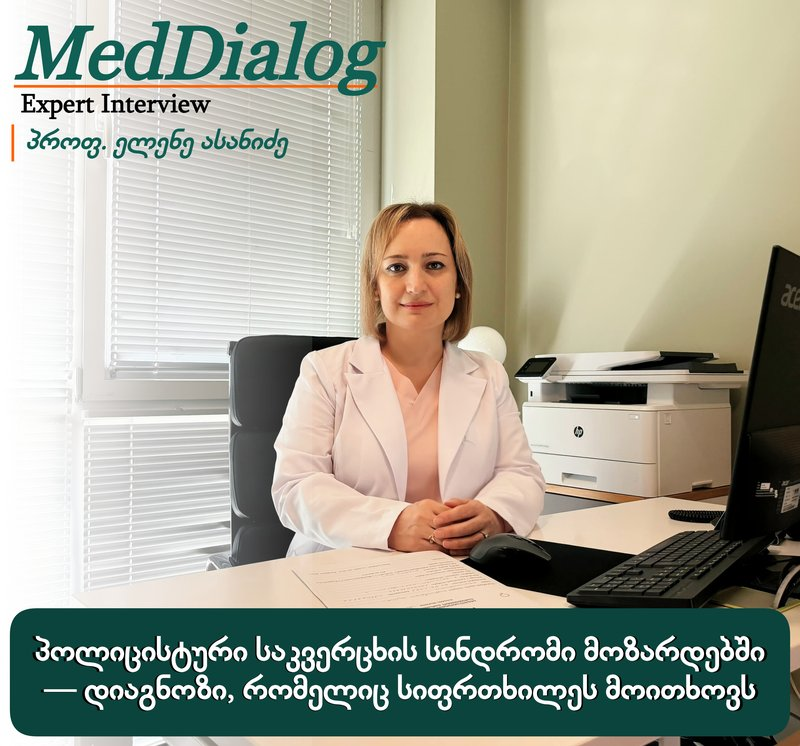
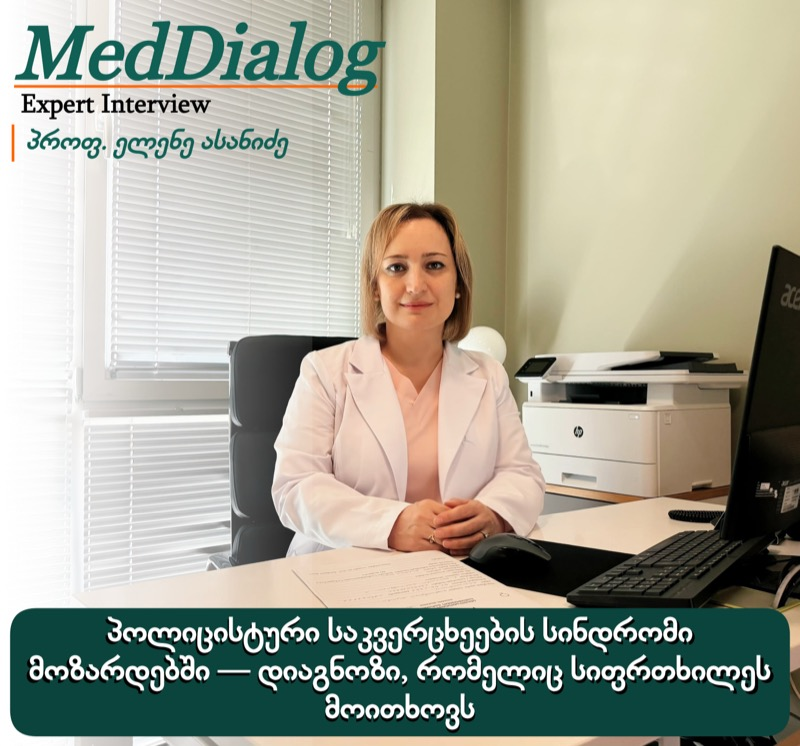
fixes

diff --git a/article-pcos.html b/article-pcos.html
@@ -4,8 +4,8 @@
 <meta charset="UTF-8">
 <meta name="viewport" content="width=device-width, initial-scale=1">
 
-<title>პოლიცისტური საკვერცხის სინდრომი მოზარდებში — ექიმთან დიალოგი</title>
-<meta name="description" content="პროფესორი ელენე ასანიძე პოლიცისტური საკვერცხის სინდრომის დიაგნოსტიკაზე მოზარდებში — რატომ საჭიროებს ის განსაკუთრებულ სიფრთხილეს.">
+<title>პოლიცისტური საკვერცხეების სინდრომი მოზარდებში — ექიმთან დიალოგი</title>
+<meta name="description" content="პროფესორი ელენე ასანიძე პოლიცისტური საკვერცხეების სინდრომის დიაგნოსტიკაზე მოზარდებში — რატომ საჭიროებს ის განსაკუთრებულ სიფრთხილეს.">
 
 <!-- სოციალური ქსელები — Facebook აბსოლუტურ URL-ებს მოითხოვს.
      დომენის შეცვლისას იხილეთ SETUP.md → "Facebook share". -->
@@ -13,8 +13,8 @@
 <meta property="og:locale" content="ka_GE">
 <meta property="og:site_name" content="ექიმთან დიალოგი">
 <meta property="og:url" content="https://meddialog.ge/article-pcos.html">
-<meta property="og:title" content="პოლიცისტური საკვერცხის სინდრომი მოზარდებში — დიაგნოზი, რომელიც სიფრთხილეს მოითხოვს">
-<meta property="og:description" content="პროფესორი ელენე ასანიძე პოლიცისტური საკვერცხის სინდრომის დიაგნოსტიკაზე მოზარდებში — რატომ საჭიროებს ის განსაკუთრებულ სიფრთხილეს.">
+<meta property="og:title" content="პოლიცისტური საკვერცხეების სინდრომი მოზარდებში — დიაგნოზი, რომელიც სიფრთხილეს მოითხოვს">
+<meta property="og:description" content="პროფესორი ელენე ასანიძე პოლიცისტური საკვერცხეების სინდრომის დიაგნოსტიკაზე მოზარდებში — რატომ საჭიროებს ის განსაკუთრებულ სიფრთხილეს.">
 <meta property="og:image" content="https://meddialog.ge/assets/img/art-pcos-share.jpg">
 <meta property="og:image:width" content="1200">
 <meta property="og:image:height" content="630">
@@ -101,7 +101,7 @@
     <p class="post__kicker">ექსპერტის ინტერვიუ</p>
 
     <h1 class="post__title">
-      პოლიცისტური საკვერცხის სინდრომი მოზარდებში —
+      პოლიცისტური საკვერცხეების სინდრომი მოზარდებში —
       დიაგნოზი, რომელიც სიფრთხილეს მოითხოვს
     </h1>
 
@@ -142,7 +142,7 @@
       </p>
 
       <p>
-        სპეციალისტები აღნიშნავენ, რომ პოლიცისტური საკვერცხის სინდრომის
+        სპეციალისტები აღნიშნავენ, რომ პოლიცისტური საკვერცხეების სინდრომის
         დიაგნოზი მოზარდებში ერთ-ერთი ყველაზე რთული კლინიკური გამოწვევაა.
         ნაჩქარევმა დიაგნოზმა შეიძლება გამოიწვიოს ჰიპერდიაგნოსტიკა და არასაჭირო
         მკურნალობა, ხოლო დაგვიანებულმა შეფასებამ — სიმპტომებისა და
@@ -154,9 +154,9 @@
         დოქტორი, მეან-გინეკოლოგი, ბავშვთა და მოზარდთა გინეკოლოგი.
       </p>
 
-      <h2 class="post__q">2026 წელს პოლიცისტური საკვერცხის სინდრომისთვის ახალი საერთაშორისო სახელწოდება — პოლიენდოკრინული მეტაბოლური საკვერცხეების სინდრომი იქნა შეთავაზებული. რას უკავშირდება ეს ცვლილება და რატომ გახდა ის საჭირო?</h2>
+      <h2 class="post__q">2026 წელს პოლიცისტური საკვერცხეების სინდრომისთვის ახალი საერთაშორისო სახელწოდება — პოლიენდოკრინული მეტაბოლური საკვერცხეების სინდრომი იქნა შეთავაზებული. რას უკავშირდება ეს ცვლილება და რატომ გახდა ის საჭირო?</h2>
 
-      <p>პოლიცისტური საკვერცხის სინდრომი (პსს) მხოლოდ გინეკოლოგიური პათოლოგია არ არის. ის წარმოადგენს კომპლექსურ, მრავალსისტემურ ენდოკრინულ-მეტაბოლურ მდგომარეობას, რომელიც გავლენას ახდენს არა მხოლოდ რეპროდუქციულ, არამედ მეტაბოლურ, გულ-სისხლძარღვთა და ფსიქოემოციურ ჯანმრთელობაზეც. სწორედ ამიტომ, 2026 წელს საერთაშორისო ექსპერტთა კონსენსუსის საფუძველზე შემოთავაზებული იქნა ახალი სახელწოდება — პოლიენდოკრინული მეტაბოლური საკვერცხის სინდრომი (პმსს).</p>
+      <p>პოლიცისტური საკვერცხეების სინდრომი (პსს) მხოლოდ გინეკოლოგიური პათოლოგია არ არის. ის წარმოადგენს კომპლექსურ, მრავალსისტემურ ენდოკრინულ-მეტაბოლურ მდგომარეობას, რომელიც გავლენას ახდენს არა მხოლოდ რეპროდუქციულ, არამედ მეტაბოლურ, გულ-სისხლძარღვთა და ფსიქოემოციურ ჯანმრთელობაზეც. სწორედ ამიტომ, 2026 წელს საერთაშორისო ექსპერტთა კონსენსუსის საფუძველზე შემოთავაზებული იქნა ახალი სახელწოდება — პოლიენდოკრინული მეტაბოლური საკვერცხეების სინდრომი (პმსს).</p>
 
       <p>ახალი სახელწოდება უკეთ ასახავს ამ მდგომარეობის მრავალსისტემურ ბუნებას და ხაზს უსვამს, რომ მისი არსი მხოლოდ საკვერცხეების ცვლილებებით არ შემოიფარგლება. ძველი სახელწოდება ხშირად ქმნიდა შთაბეჭდილებას, თითქოს პრობლემა მხოლოდ საკვერცხეებში არსებულ „კისტებს“ უკავშირდებოდა, მაშინ როცა მდგომარეობა ჰორმონულ და მეტაბოლურ პროცესებს მოიცავს. ახალი ტერმინის დანერგვა ეტაპობრივად მოხდება და მისი სრული ინტეგრაცია 2028 წლის საერთაშორისო გაიდლაინის განახლებასთან არის დაკავშირებული; გარდამავალ პერიოდში კი ორივე ტერმინის გამოყენება შესაძლებელია.</p>
 
@@ -358,7 +358,7 @@
         <ul class="footer__list">
           <li><a href="#">ქალთა ჯანმრთელობა</a></li>
           <li><a href="#">ორსულობა</a></li>
-          <li><a href="#">სექსობრივი ჯანმრთელობა</a></li>
+          <li><a href="#">სქესობრივი ჯანმრთელობა</a></li>
           <li><a href="#">ქირურგია</a></li>
         </ul>
       </nav>

diff --git a/index.html b/index.html
@@ -206,7 +206,7 @@
           </div>
         </li>
 
-        <!-- 4 — სექსობრივი ჯანმრთელობა -->
+        <!-- 4 — სქესობრივი ჯანმრთელობა -->
         <li class="card reveal">
           <div class="card__media">
             <img src="assets/img/cat-sexual.jpg" width="600" height="600" alt="წყვილი ზღვის სანაპიროზე მზის ჩასვლისას" loading="lazy" decoding="async">
@@ -217,7 +217,7 @@
             </span>
           </div>
           <div class="card__body">
-            <h3 class="card__title"><a class="card__link" href="#">სექსობრივი ჯანმრთელობა</a></h3>
+            <h3 class="card__title"><a class="card__link" href="#">სქესობრივი ჯანმრთელობა</a></h3>
             <svg class="card__arrow" width="19" height="19" viewBox="0 0 24 24" fill="none" stroke="currentColor" stroke-width="2.2" stroke-linecap="round" stroke-linejoin="round" aria-hidden="true">
               <path d="M5 12h14M13 6l6 6-6 6"/>
             </svg>
@@ -395,7 +395,7 @@
         <ul class="footer__list">
           <li><a href="#">ქალთა ჯანმრთელობა</a></li>
           <li><a href="#">ორსულობა</a></li>
-          <li><a href="#">სექსობრივი ჯანმრთელობა</a></li>
+          <li><a href="#">სქესობრივი ჯანმრთელობა</a></li>
           <li><a href="#">ქირურგია</a></li>
         </ul>
       </nav>

diff --git a/ask.html b/ask.html
@@ -156,7 +156,7 @@
               <option>ქალთა ჯანმრთელობა</option>
               <option>რეპროდუქციული ჯანმრთელობა</option>
               <option>ორსულობა</option>
-              <option>სექსობრივი ჯანმრთელობა</option>
+              <option>სქესობრივი ჯანმრთელობა</option>
               <option>ბავშვთა და მოზარდთა ჯანმრთელობა</option>
               <option>ქირურგია</option>
               <option>სხვა</option>
@@ -337,7 +337,7 @@
         <ul class="footer__list">
           <li><a href="#">ქალთა ჯანმრთელობა</a></li>
           <li><a href="#">ორსულობა</a></li>
-          <li><a href="#">სექსობრივი ჯანმრთელობა</a></li>
+          <li><a href="#">სქესობრივი ჯანმრთელობა</a></li>
           <li><a href="#">ქირურგია</a></li>
         </ul>
       </nav>

diff --git a/category-children.html b/category-children.html
@@ -108,7 +108,7 @@
 
           <div class="art__body">
             <h2 class="art__title">
-              პოლიცისტური საკვერცხის სინდრომი მოზარდებში — დიაგნოზი,
+              პოლიცისტური საკვერცხეების სინდრომი მოზარდებში — დიაგნოზი,
               რომელიც სიფრთხილეს მოითხოვს
             </h2>
             <p class="art__excerpt">
@@ -176,7 +176,7 @@
         <ul class="footer__list">
           <li><a href="index.html#categories">ქალთა ჯანმრთელობა</a></li>
           <li><a href="#">ორსულობა</a></li>
-          <li><a href="#">სექსობრივი ჯანმრთელობა</a></li>
+          <li><a href="#">სქესობრივი ჯანმრთელობა</a></li>
           <li><a href="#">ქირურგია</a></li>
         </ul>
       </nav>

diff --git a/about.html b/about.html
@@ -203,7 +203,7 @@
         <ul class="footer__list">
           <li><a href="#">ქალთა ჯანმრთელობა</a></li>
           <li><a href="#">ორსულობა</a></li>
-          <li><a href="#">სექსობრივი ჯანმრთელობა</a></li>
+          <li><a href="#">სქესობრივი ჯანმრთელობა</a></li>
           <li><a href="#">ქირურგია</a></li>
         </ul>
       </nav>

diff --git a/questionarySECR.html b/questionarySECR.html
@@ -246,7 +246,7 @@
         <ul class="footer__list">
           <li><a href="#">ქალთა ჯანმრთელობა</a></li>
           <li><a href="#">ორსულობა</a></li>
-          <li><a href="#">სექსობრივი ჯანმრთელობა</a></li>
+          <li><a href="#">სქესობრივი ჯანმრთელობა</a></li>
           <li><a href="#">ქირურგია</a></li>
         </ul>
       </nav>

diff --git a/assets/img/README.md b/assets/img/README.md
@@ -19,6 +19,6 @@
 | cat-womens.jpg | 600×600 | ქალთა ჯანმრთელობა |
 | cat-reproductive.jpg | 600×600 | რეპროდუქციული ჯანმრთელობა |
 | cat-pregnancy.jpg | 600×600 | ორსულობა |
-| cat-sexual.jpg | 600×600 | სექსობრივი ჯანმრთელობა |
+| cat-sexual.jpg | 600×600 | სქესობრივი ჯანმრთელობა |
 | cat-children.jpg | 600×600 | ბავშვთა და მოზარდთა ჯანმრთელობა |
 | cat-surgery.jpg | 600×600 | ქირურგია |
